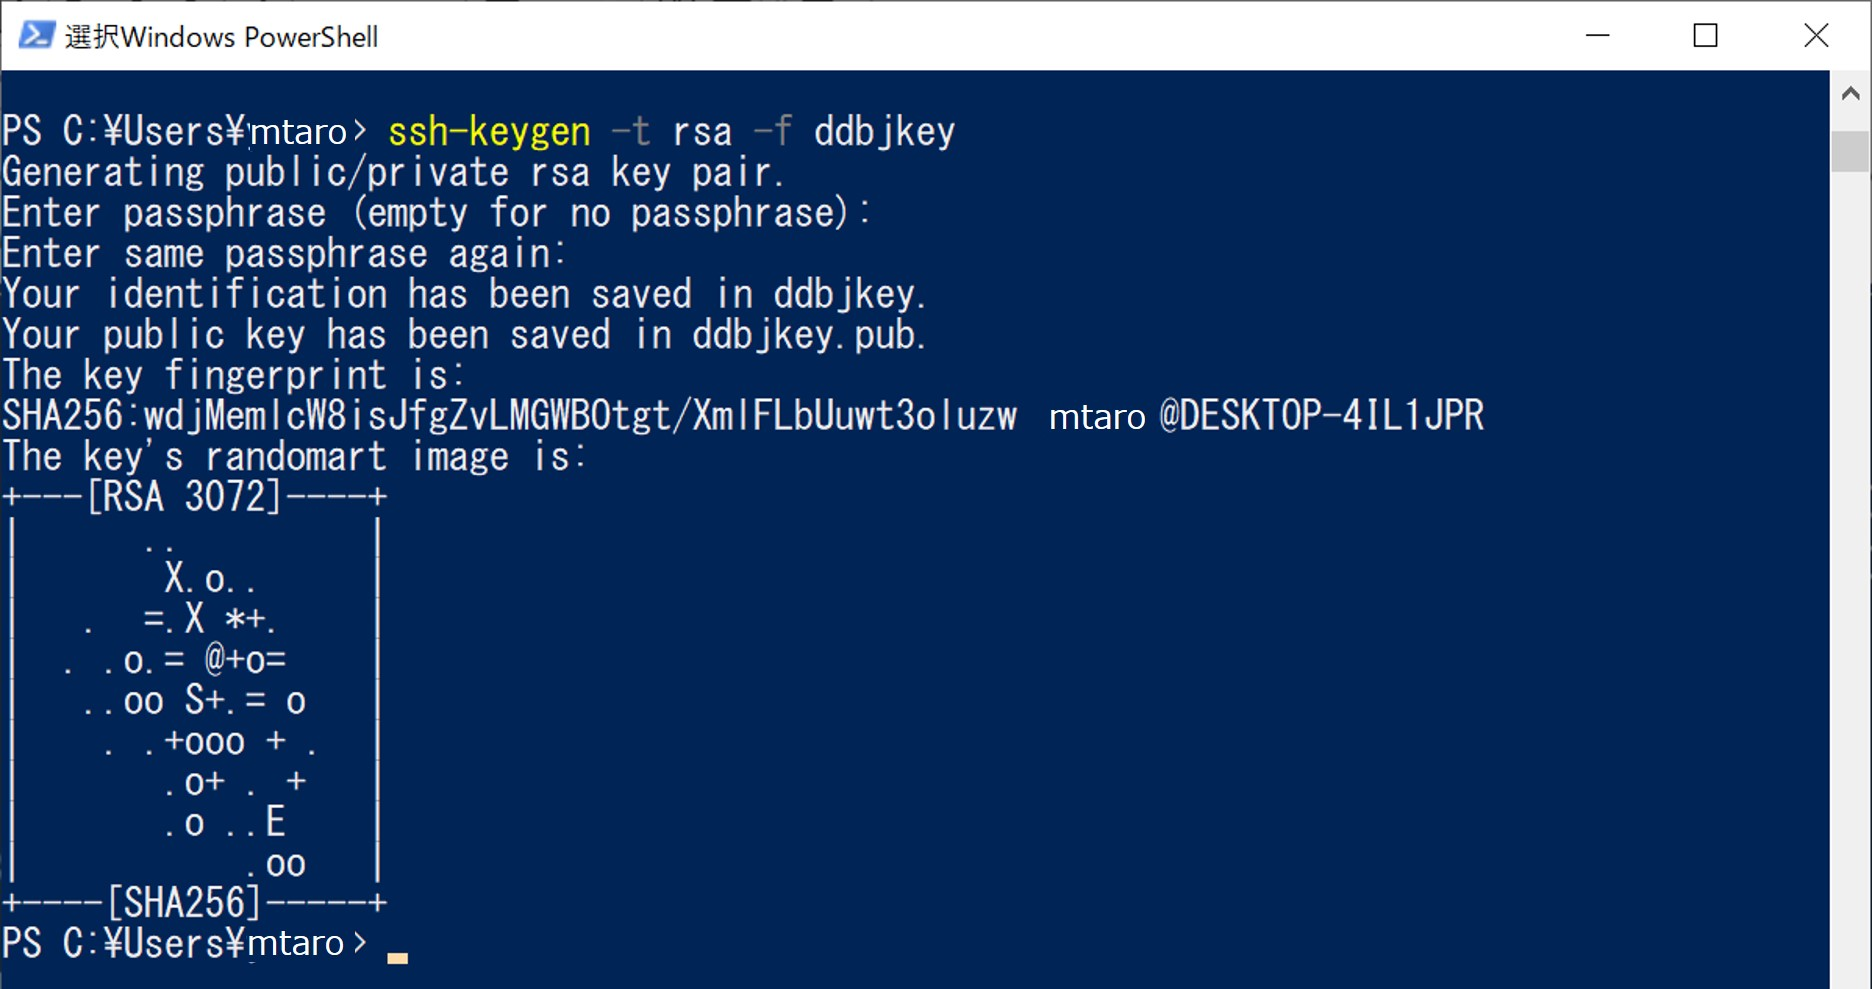
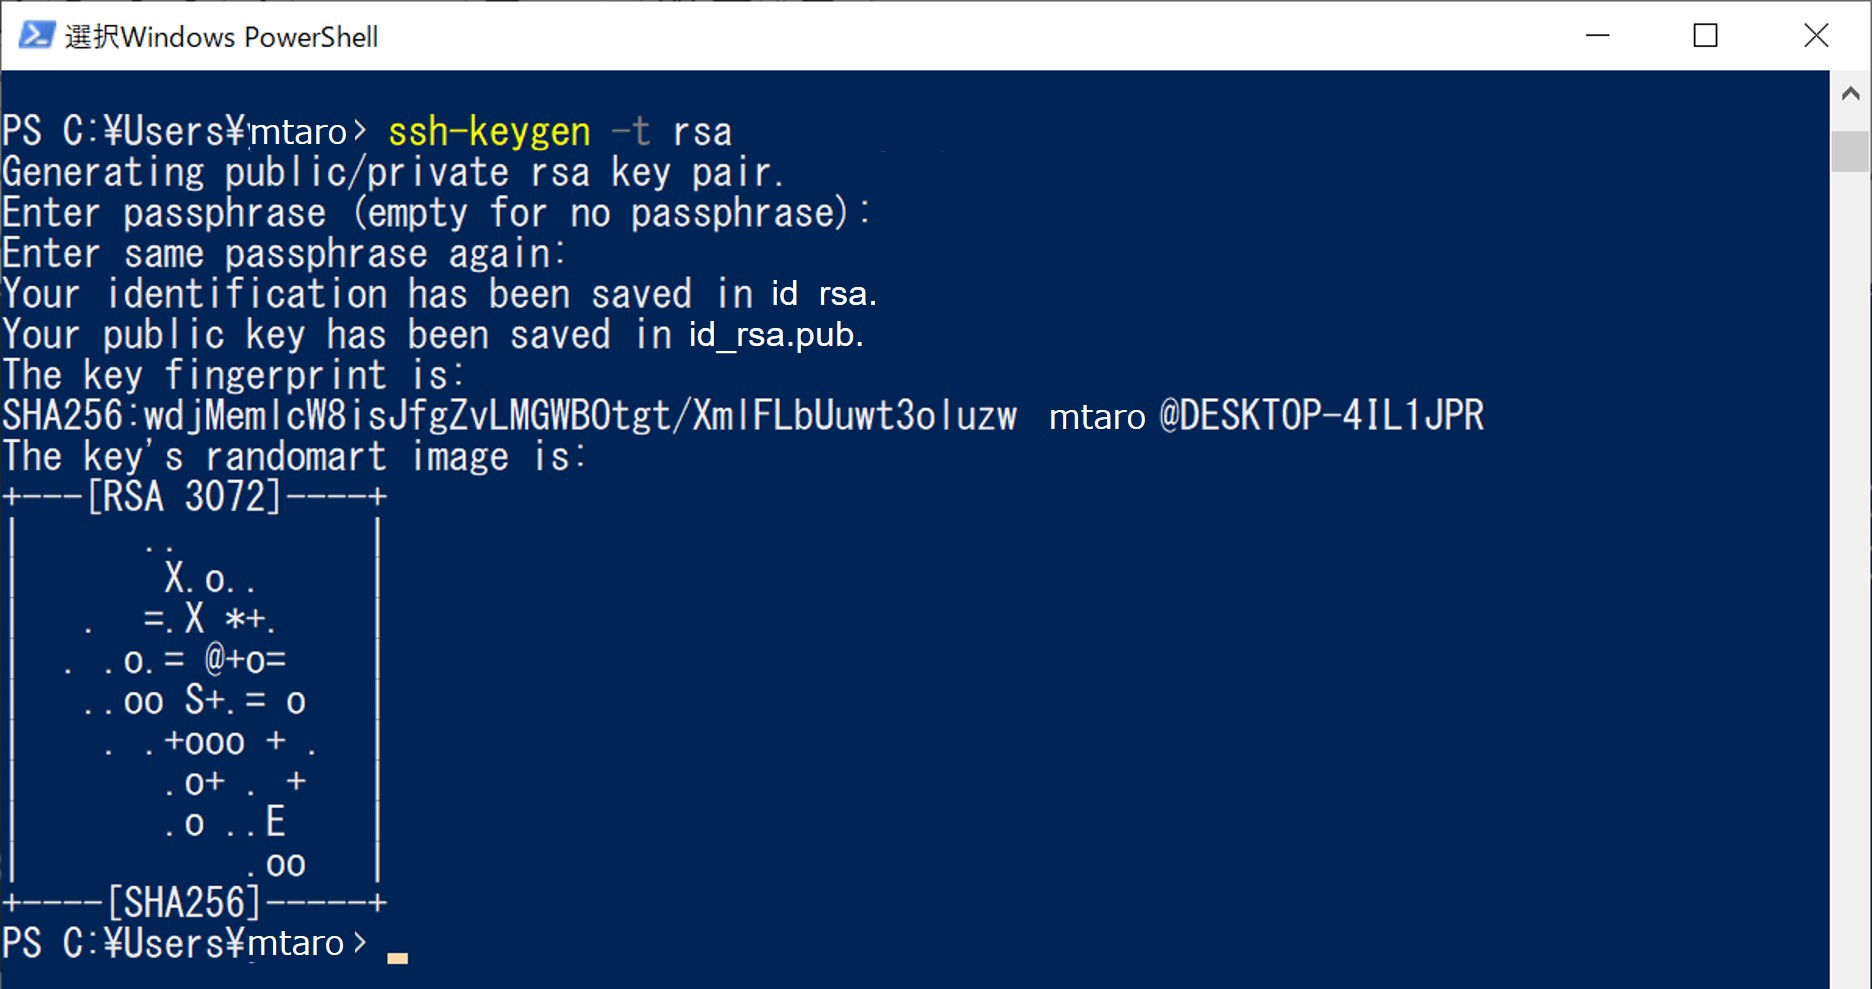
key for decryption, distinguish

Changed region(s): [[0.3718, 0.273, 0.4957, 0.364], [0.4028, 0.1213, 0.5267, 0.1517]]

diff --git a/account.md b/account.md
@@ -10,12 +10,10 @@ lang: ja
 
 {::options parse_block_html="true" /}
 <div class="attention">
-
-  - 責任者の許可のもとアカウントを作成し，データを管理してください。
-  - アカウントとパスワードはユーザが安全に管理してください。
-  - アカウント名は変更できません。
-  - アカウント作成後、NBDC 申請システムで利用できるようになるまで10分程度時間がかかります。
-
+- 責任者の許可のもとアカウントを作成し，データを管理してください。
+- アカウントとパスワードはユーザが安全に管理してください。
+- アカウント名は変更できません。
+- アカウント作成後、NBDC 申請システムで利用できるようになるまで10分程度時間がかかります。
 </div>
 
 DDBJ センターではサイズの大きいファイルの転送に ssh 鍵認証を介した scp を利用しています。
@@ -103,9 +101,9 @@ Windows PowerShell を起動します。
 PowerShell のターミナルで以下のコマンドを実行し、openSSH 形式の鍵ペアを生成します。   
 
 ``` 
-鍵ペアの生成。-f で鍵のファイル名を指定します。
+鍵ペアの生成。
 デフォルトでは mtaro というユーザであれば C:\Users\mtaro に作成されます。
-PS C:\Users\mtaro> ssh-keygen -t rsa -f ddbjkey
+PS C:\Users\mtaro> ssh-keygen -t rsa
 
 メッセージが表示されます。
 Generating public/private rsa key pair.
@@ -114,10 +112,10 @@ Generating public/private rsa key pair.
 Enter passphrase (empty for no passphrase):
 Enter same passphrase again:
 
-Your identification has been saved in ddbjkey.
-Your public key has been saved in ddbjkey.pub.
+Your identification has been saved in id_rsa.
+Your public key has been saved in id_rsa.pub.
 
-"C:\Users\mtaro" に秘密鍵は "id_rsa" として，公開鍵は "id_rsa.pub" として保存されます。
+"C:\Users\mtaro" に秘密鍵は "id_rsa" として、公開鍵は "id_rsa.pub" として保存されます。
 ```
 
 実際の画面では以下のようになります。  
@@ -126,6 +124,12 @@ Your public key has been saved in ddbjkey.pub.
 
 OpenSSH 形式の秘密鍵 (id_isa) と公開鍵 (id_rsa.pub) がユーザフォルダ（例では C:ユーザ:mtaro の直下）に作成されます。  
 [![]({{ site.baseurl }}/assets/images/books/win-ps-3.jpg){:.w500}]({{ site.baseurl }}/assets/images/books/win-ps-3.jpg "ユーザフォルダの下に鍵ペアが生成されます"){: .group1}
+
+JGA の[データセット復号用公開鍵・秘密鍵ペア](/jga/download.html#key-for-decryption)は -f オプションで利用申請 ID をファイル名に含めて保存するとペアを識別しやすくなります。
+```
+PS C:\Users\mtaro> ssh-keygen -t rsa -f J-DU999991
+"C:\Users\mtaro" に秘密鍵は "J-DU999991" として、公開鍵は "J-DU999991.pub" として保存されます。
+```
 
 #### PuTTY 形式 {#putty}
 
@@ -137,6 +141,9 @@ OpenSSH 形式の秘密鍵 (id_isa) と公開鍵 (id_rsa.pub) がユーザフォ
 
 ウィンドウのなかでマウスポインターをランダムに動かして鍵を生成させます。生成される公開鍵と秘密鍵を保存します。鍵は WinSCP
 でそのまま使用できる PuTTY 形式で保存されます。
+
+JGA の[データセット復号用公開鍵・秘密鍵ペア](/jga/download.html#key-for-decryption)は利用申請 ID をファイル名に含めて保存するとペアを識別しやすくなります。  
+例 公開鍵 J-DU999991.pub、秘密鍵 J-DU999991
 
 ### Mac OS X {#mac}
 
@@ -162,7 +169,7 @@ Enter same passphrase again:
 
 Your identification has been saved in /Users/you/.ssh/id_rsa.
 Your public key has been saved in /Users/you/.ssh/id_rsa.pub.
-"/Users/you/.ssh" フォルダに秘密鍵は "id_rsa" として，公開鍵は "id_rsa.pub" として保存されます。
+"/Users/you/.ssh" フォルダに秘密鍵は "id_rsa" として、公開鍵は "id_rsa.pub" として保存されます。
 ```
 
 公開鍵を含んでいる隠しフォルダ ".ssh" を表示します。 ファインダーの "移動" メニューから "フォルダへ移動" を選択します。
@@ -178,6 +185,12 @@ Your public key has been saved in /Users/you/.ssh/id_rsa.pub.
 [![]({{ site.baseurl }}/assets/images/books/mac_key_4.jpg){:.w400}]({{ site.baseurl }}/assets/images/books/mac_key_4.jpg ".ssh フォルダ中の公開鍵ファイル"){: .group1}
 
 その公開鍵ファイル "id\_rsa.pub" をデスクトップなどにコピーし，アカウントに登録します。
+
+JGA の[データセット復号用公開鍵・秘密鍵ペア](/jga/download.html#key-for-decryption)は -f オプションで利用申請 ID をファイル名に含めて保存するとペアを識別しやすくなります。
+```
+$ ssh-keygen -t rsa -f J-DU999991
+"/Users/you/.ssh" フォルダに秘密鍵は "J-DU999991" として、公開鍵は "J-DU999991.pub" として保存されます。
+```
 
 ### Unix {#unix}
 
@@ -198,6 +211,12 @@ Enter same passphrase again:
 Your identification has been saved in /Users/you/.ssh/id_rsa.
 Your public key has been saved in /Users/you/.ssh/id_rsa.pub.
 "/Users/you/.ssh" フォルダに秘密鍵は "id_rsa" として，公開鍵は "id_rsa.pub" として保存されます。
+```
+
+JGA の[データセット復号用公開鍵・秘密鍵ペア](/jga/download.html#key-for-decryption)は -f オプションで利用申請 ID をファイル名に含めて保存するとペアを識別しやすくなります。
+```
+$ ssh-keygen -t rsa -f J-DU999991
+"/Users/you/.ssh" フォルダに秘密鍵は "J-DU999991" として、公開鍵は "J-DU999991.pub" として保存されます。
 ```
 
 ### Center name と認証用公開鍵の登録  {#register-center-name-and-public-key}

diff --git a/account-e.md b/account-e.md
@@ -106,9 +106,9 @@ Run Windows PowerShell.
 Execute following commands in the PowerShell window to generate openSSH-format key pair.  
 
 ``` 
-Generate key pair. Specify a filename by f option.  
+Generate key pair.
 By default, for example, two keys will be generated at C:\Users\mtaro in the case of mtaro Windows user.  
-PS C:\Users\mtaro> ssh-keygen -t rsa -f ddbjkey
+PS C:\Users\mtaro> ssh-keygen -t rsa
 
 Message will be shown.  
 Generating public/private rsa key pair.
@@ -117,8 +117,8 @@ Press [Enter] for setting no passphrase.
 Enter passphrase (empty for no passphrase):
 Enter same passphrase again:
 
-Your identification has been saved in ddbjkey.
-Your public key has been saved in ddbjkey.pub.
+Your identification has been saved in id_rsa.
+Your public key has been saved in id_rsa.pub.
 
 A private key is saved as "id_rsa" and a public key is saved as "id_rsa.pub" in "C:\Users\mtaro" folder.  
 ```
@@ -130,6 +130,12 @@ Following is the example command execution in the PowerShell window.
 A private key is saved as "id_rsa" and a public key is saved as "id_rsa.pub" in the openSSH format under "C:\Users\mtaro" folder.  
 [![]({{ site.baseurl }}/assets/images/books/win-ps-3.jpg){:.w500}]({{ site.baseurl }}/assets/images/books/win-ps-3.jpg "A openSSH key pair is generated under the user folder"){: .group1}
 
+To distinguish the key pair, please save the JGA [public and private key pair for data decryption](/jga/download-e.html#key-for-decryption) as filenamaes having the applicatio ID by using -f option.
+```
+PS C:\Users\mtaro> ssh-keygen -t rsa -f J-DU999991
+A private key is saved as "J-DU999991" and a public key is saved as "J-DU999991.pub" in "C:\Users\mtaro" folder.  
+```
+
 #### PuTTY format {#putty}
 
 Install and run the [PuTTY Key Generator](https://www.puttygen.com/%0A).
@@ -140,6 +146,9 @@ Set parameters as below and click the [Generate] button.
 Generate a key pair by moving mouse pointer randomly in the window and
 save the public and private keys. The key is saved in the PuTTY format
 and can be used in the WinSCP.
+
+To distinguish the key pair, please save the JGA [public and private key pair for data decryption](/jga/download-e.html#key-for-decryption) as filenamaes having the applicatio ID.
+For example, the public key "J-DU999991.pub" and the private key "J-DU999991".
 
 ### Mac OS X {#mac}
 
@@ -186,6 +195,12 @@ The public key file "id_rsa.pub" is displayed.
 Copy the public key file "id_rsa.pub" to your desk top for your account
 registration.
 
+To distinguish the key pair, please save the JGA [public and private key pair for data decryption](/jga/download-e.html#key-for-decryption) as filenamaes having the applicatio ID by using -f option.
+```
+$ ssh-keygen -t rsa -f J-DU999991
+At "/Users/you/.ssh", the private key is saved as "J-DU999991" and the public key is saved as "J-DU999991.pub".
+```
+
 ### Unix {#unix}
 
 ```
@@ -205,6 +220,12 @@ Enter same passphrase again:
 Your identification has been saved in /Users/you/.ssh/id_rsa.
 Your public key has been saved in /Users/you/.ssh/id_rsa.pub.
 At "/Users/you/.ssh", the private key is saved as "id_rsa" and the public key is saved as "id_rsa.pub".
+```
+
+To distinguish the key pair, please save the JGA [public and private key pair for data decryption](/jga/download-e.html#key-for-decryption) as filenamaes having the applicatio ID by using -f option.
+```
+$ ssh-keygen -t rsa -f J-DU999991
+At "/Users/you/.ssh", the private key is saved as "J-DU999991" and the public key is saved as "J-DU999991.pub".
 ```
 
 ### Register center name and public key  {#register-center-name-and-public-key}

diff --git a/_jga/download-e.md b/_jga/download-e.md
@@ -56,10 +56,10 @@ A key pair for data transfer.
 
 {% include image.html url="books/two-key-pairs.jpg" caption="Key pairs for data transfer and dataset decryption" class="w450" %}
 
-Please save the public and private keys for decryption using the data use application ID as their filenames.
+Save the public and private keys for decryption as filenames having the application ID.
 Example:  
-* Public key for decryption: J-DU999991_public_key
-* Private key for decryption: J-DU999991_private_key
+* Public key for decryption: J-DU999991.pub
+* Private key for decryption: J-DU999991
 
 ## Data use application to NBDC {#du-application}
 
